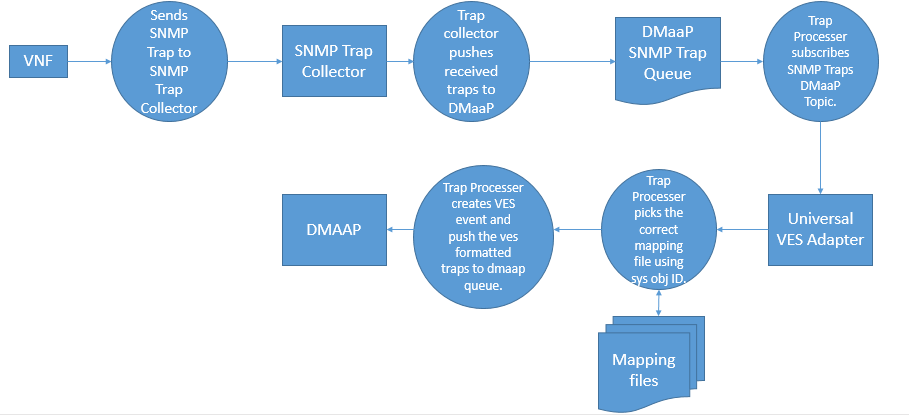
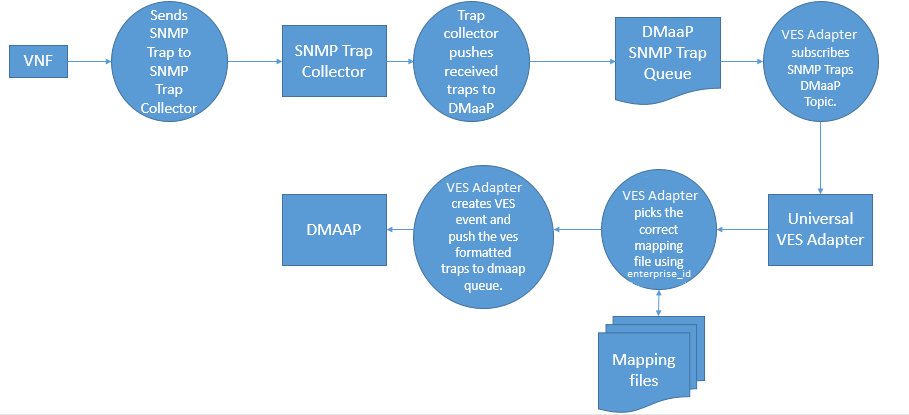
Update DCAEGEN2, mapper services doc
Changing documentation as per changes made for Dublin release

Issue-ID: DCAEGEN2-1461

diff --git a/docs/sections/services/mapper/mappingfile.rst b/docs/sections/services/mapper/mappingfile.rst
@@ -1,84 +1,114 @@
 .. This work is licensed under a Creative Commons Attribution 4.0 International License.
 .. http://creativecommons.org/licenses/by/4.0
-.. Copyright 2018 Tech Mahindra Ltd.
+.. Copyright 2018-2019 Tech Mahindra Ltd.
 
 Mapping File
 ============
 
 Mapping file is needed by Universal VES Adapter to convert the telemetry data into the VES format.
 The Adapter uses Smooks Framework to do the data format conversion by using the mapping files.
-Currently it requires to write the mapping file manually and upload it using the SnmpMapper application. The file gets stored into the postgres database. The pgInventory instance is used for this.
 
 | To know more about smooks framework check the following link:
 | http://www.smooks.org/guide
 
+SNMP Collector Default Mapping File
+============
 Following is the default snmp mapping file which is used when no mapping file is found while processing event from SNMP Trap Collector. 
 
 .. code-block:: xml
 
- <?xml version="1.0"?>
-    <smooks-resource-list
-             xmlns="http://www.milyn.org/xsd/smooks-1.1.xsd"
-            xmlns:json="http://www.milyn.org/xsd/smooks/json-1.1.xsd"
-            xmlns:jb="http://www.milyn.org/xsd/smooks/javabean-1.4.xsd">
-        <json:reader rootName="vesevent"  keyWhitspaceReplacement="-">
-        <json:keyMap>
-                   <json:key from="date&amp;time" to="date-and-time" />
-                </json:keyMap>
-          </json:reader>
-     
-       <jb:bean class="org.onap.dcaegen2.ves.domain.VesEvent" beanId="vesEvent" createOnElement="vesevent">
-          <jb:wiring property="event" beanIdRef="event"/>
-     </jb:bean>
-  
-       <jb:bean class="org.onap.dcaegen2.ves.domain.Event" beanId="event" createOnElement="vesevent">
-           <jb:wiring property="commonEventHeader" beanIdRef="commonEventHeader"/>
-           <jb:wiring property="faultFields" beanIdRef="faultFields"/>     
-          <!--<jb:wiring property="measurementsForVfScalingFields" beanIdRef="measurementsForVfScalingFields"/> -->       
-      </jb:bean>   
-      <!--<jb:bean class="org.onap.dcaegen2.ves.domain.MeasurementsForVfScalingFields" beanId="measurementsForVfScalingFields" createOnElement="simple">
-          <jb:wiring property="additionalMeasurements" beanIdRef="additionalMeasurements"/>
-       </jb:bean>-->
-       
-       <jb:bean class="org.onap.dcaegen2.ves.domain.CommonEventHeader" beanId="commonEventHeader" createOnElement="vesevent">
-                  <jb:expression property="version">"3.0"</jb:expression>
-                   <jb:expression property="eventId">"XXXX"</jb:expression>
-                   <jb:expression property="reportingEntityName">"VesAdapter"</jb:expression>
-                  <jb:expression property="domain">"fault"</jb:expression>
-                  <jb:expression property="eventName" execOnElement="vesevent" >commonEventHeader.domain+"_"+"_"+ faultFields.alarmCondition;</jb:expression>
-          <jb:value property="sequence" data="0" default="0" decoder="Long"/>
-           <jb:value property="lastEpochMicrosec" data="#/time-received"  decoder="Double" />
-          <jb:value property="startEpochMicrosec" data="#/time-received"  decoder="Double"/>
-                  <jb:expression property="priority">"Medium"</jb:expression>
-          <jb:expression property="sourceName">"VesAdapter"</jb:expression>
-      </jb:bean>   
-      
-      <jb:bean class="org.onap.dcaegen2.ves.domain.FaultFields" beanId="faultFields" createOnElement="vesevent">
-           <jb:value property="alarmCondition" data="#/trap-category" />
-                 <jb:expression property="eventSeverity">"MINOR"</jb:expression>
-                   <jb:expression property="eventSourceType">"SNMP Agent"</jb:expression>
-           <jb:expression property="specificProblem">"SNMP Fault"</jb:expression>
-           <jb:value property="faultFieldsVersion" data="2.0" default="2.0" decoder="Double" />
-          <jb:wiring property="alarmAdditionalInformation" beanIdRef="alarmAdditionalInformationroot"/>   
-                  <jb:expression property="vfStatus">"Active"</jb:expression>
-         
-    </jb:bean>  
-        <jb:bean class="java.util.ArrayList" beanId="alarmAdditionalInformationroot" createOnElement="vesevent">
-         <jb:wiring beanIdRef="alarmAdditionalInformation"/>
-      </jb:bean>
-      
-        <jb:bean class="org.onap.dcaegen2.ves.domain.AlarmAdditionalInformation" beanId="alarmAdditionalInformation" createOnElement="varbinds/element">
-        <jb:value property="name" data="#/varbind_oid"/>
-         <jb:value property="value" data="#/varbind_value" />
-       </jb:bean>
-          <!--<jb:bean class="java.util.ArrayList" beanId="additionalMeasurements" createOnElement="simple">
-         <jb:wiring beanIdRef="additionalMeasurement"/>
-       </jb:bean>    
-      
-       <jb:bean class="org.onap.dcaegen2.ves.domain.AdditionalMeasurement" beanId="additionalMeasurement" createOnElement="varbinds/element">
-          <jb:value property="name" data="#/varbind_value" />
-      </jb:bean>  -->  
-      
-  </smooks-resource-list>
+ <?xml version="1.0" encoding="UTF-8"?><smooks-resource-list xmlns="http://www.milyn.org/xsd/smooks-1.1.xsd" xmlns:jb="http://www.milyn.org/xsd/smooks/javabean-1.4.xsd" xmlns:json="http://www.milyn.org/xsd/smooks/json-1.1.xsd">
+   <json:reader rootName="vesevent" keyWhitspaceReplacement="-">
+      <json:keyMap>
+         <json:key from="date&amp;time" to="date-and-time" />
+      </json:keyMap>
+   </json:reader>
+   <jb:bean class="org.onap.dcaegen2.ves.domain.ves54.VesEvent" beanId="vesEvent" createOnElement="vesevent">
+      <jb:wiring property="event" beanIdRef="event" />
+   </jb:bean>
+   <jb:bean class="org.onap.dcaegen2.ves.domain.ves54.Event" beanId="event" createOnElement="vesevent">
+      <jb:wiring property="commonEventHeader" beanIdRef="commonEventHeader" />
+      <jb:wiring property="faultFields" beanIdRef="faultFields" />
+   </jb:bean>
+   <jb:bean class="org.onap.dcaegen2.ves.domain.ves54.CommonEventHeader" beanId="commonEventHeader" createOnElement="vesevent">
+      <jb:expression property="version">'3.0'</jb:expression>
+      <jb:expression property="eventType">'FaultField'</jb:expression>
+      <jb:expression property="eventId" execOnElement="vesevent">'XXXX'</jb:expression>
+      <jb:expression property="reportingEntityName">'VESMapper'</jb:expression>
+      <jb:expression property="domain">org.onap.dcaegen2.ves.domain.ves54.CommonEventHeader.Domain.FAULT</jb:expression>
+      <jb:expression property="eventName" execOnElement="vesevent">commonEventHeader.domain</jb:expression>
+      <jb:value property="sequence" data="0" default="0" decoder="Long" />
+      <jb:value property="lastEpochMicrosec" data="#/time-received" />
+      <jb:value property="startEpochMicrosec" data="#/time-received" />
+      <jb:expression property="priority">org.onap.dcaegen2.ves.domain.ves54.CommonEventHeader.Priority.NORMAL</jb:expression>
+      <jb:expression property="sourceName">'VesAdapter'</jb:expression>
+   </jb:bean>
+   <jb:bean class="org.onap.dcaegen2.ves.domain.ves54.FaultFields" beanId="faultFields" createOnElement="vesevent">
+      <jb:value property="faultFieldsVersion" data="2.0" default="2.0" decoder="Double" />
+      <jb:value property="alarmCondition" data="#/trap-category" />
+      <jb:expression property="specificProblem">'SNMP Fault'</jb:expression>
+      <jb:expression property="vfStatus">org.onap.dcaegen2.ves.domain.ves54.FaultFields.VfStatus.ACTIVE</jb:expression>
+      <jb:expression property="eventSeverity">org.onap.dcaegen2.ves.domain.ves54.FaultFields.EventSeverity.MINOR</jb:expression>
+      <jb:wiring property="alarmAdditionalInformation" beanIdRef="alarmAdditionalInformationroot" />
+   </jb:bean>
+   <jb:bean class="java.util.ArrayList" beanId="alarmAdditionalInformationroot" createOnElement="vesevent">
+      <jb:wiring beanIdRef="alarmAdditionalInformation" />
+   </jb:bean>
+   <jb:bean class="org.onap.dcaegen2.ves.domain.ves54.AlarmAdditionalInformation" beanId="alarmAdditionalInformation" createOnElement="varbinds/element">
+      <jb:value property="name" data="#/varbind_oid" />
+      <jb:value property="value" data="#/varbind_value" />
+   </jb:bean></smooks-resource-list>
 
+RestConf Collector Default Mapping File
+============
+Following is the default RestConf collector mapping file which is used when no mapping file is found while processing notification from RestConf Collector. 
 
+.. code-block:: xml
+
+ <?xml version="1.0" encoding="UTF-8"?><smooks-resource-list xmlns="http://www.milyn.org/xsd/smooks-1.1.xsd" xmlns:jb="http://www.milyn.org/xsd/smooks/javabean-1.4.xsd" xmlns:json="http://www.milyn.org/xsd/smooks/json-1.1.xsd">
+   <json:reader rootName="vesevent" keyWhitspaceReplacement="-">
+      <json:keyMap>
+         <json:key from="date&amp;time" to="date-and-time" />
+      </json:keyMap>
+   </json:reader>
+   <jb:bean class="org.onap.dcaegen2.ves.domain.ves70.VesEvent" beanId="vesEvent" createOnElement="vesevent">
+      <jb:wiring property="event" beanIdRef="event" />
+   </jb:bean>
+   <jb:bean class="org.onap.dcaegen2.ves.domain.ves70.Event" beanId="event" createOnElement="vesevent">
+      <jb:wiring property="commonEventHeader" beanIdRef="commonEventHeader" />
+      <jb:wiring property="pnfRegistrationFields" beanIdRef="pnfRegistrationFields" />
+   </jb:bean>
+   <jb:bean class="org.onap.dcaegen2.ves.domain.ves70.CommonEventHeader" beanId="commonEventHeader" createOnElement="vesevent">
+      <jb:expression property="version">org.onap.dcaegen2.ves.domain.ves70.CommonEventHeader.Version._4_0_1</jb:expression>
+      <jb:expression property="eventType">'pnfRegistration'</jb:expression>
+      <jb:expression property="vesEventListenerVersion">org.onap.dcaegen2.ves.domain.ves70.CommonEventHeader.VesEventListenerVersion._7_0_1</jb:expression>
+      <jb:expression property="eventId" execOnElement="vesevent">'registration_'+commonEventHeader.ts1</jb:expression>
+      <jb:expression property="reportingEntityName">'VESMapper'</jb:expression>
+      <jb:expression property="domain">org.onap.dcaegen2.ves.domain.ves70.CommonEventHeader.Domain.PNF_REGISTRATION</jb:expression>
+      <jb:expression property="eventName" execOnElement="vesevent">commonEventHeader.domain</jb:expression>
+      <jb:value property="sequence" data="0" default="0" decoder="Long" />
+      <jb:expression property="lastEpochMicrosec" execOnElement="vesevent">commonEventHeader.ts1</jb:expression>
+      <jb:expression property="startEpochMicrosec" execOnElement="vesevent">commonEventHeader.ts1</jb:expression>
+      <jb:expression property="priority">org.onap.dcaegen2.ves.domain.ves70.CommonEventHeader.Priority.NORMAL</jb:expression>
+      <jb:expression property="sourceName" execOnElement="vesevent">pnfRegistrationFields.vendorName+'-'+pnfRegistrationFields.serialNumber</jb:expression>
+   </jb:bean>
+   <jb:bean class="org.onap.dcaegen2.ves.domain.ves70.PnfRegistrationFields" beanId="pnfRegistrationFields" createOnElement="vesevent">
+      <jb:expression property="pnfRegistrationFieldsVersion">org.onap.dcaegen2.ves.domain.ves70.PnfRegistrationFields.PnfRegistrationFieldsVersion._2_0</jb:expression>
+      <jb:value property="serialNumber" data="pnfRegistration/serialNumber" />
+      <jb:value property="lastServiceDate" data="pnfRegistration/lastServiceDate" />
+      <jb:value property="manufactureDate" data="pnfRegistration/manufactureDate" />
+      <jb:value property="modelNumber" data="pnfRegistration/modelNumber" />
+      <jb:value property="oamV4IpAddress" data="pnfRegistration/oamV4IpAddress" />
+      <jb:value property="oamV6IpAddress" data="pnfRegistration/oamV6IpAddress" />
+      <jb:value property="softwareVersion" data="pnfRegistration/softwareVersion" />
+      <jb:value property="unitFamily" data="pnfRegistration/unitFamily" />
+      <jb:value property="unitType" data="pnfRegistration/unitType" />
+      <jb:value property="vendorName" data="pnfRegistration/vendorName" />
+      <jb:wiring property="additionalFields" beanIdRef="alarmAdditionalInformation" />
+   </jb:bean>
+   <jb:bean class="org.onap.dcaegen2.ves.domain.ves70.AlarmAdditionalInformation" beanId="alarmAdditionalInformation" createOnElement="vesevent">
+      <jb:wiring property="additionalProperties" beanIdRef="additionalFields2" />
+   </jb:bean>
+   <jb:bean beanId="additionalFields2" class="java.util.HashMap" createOnElement="vesevent/pnfRegistration/additionalFields">
+      <jb:value data="pnfRegistration/additionalFields/*" />
+   </jb:bean></smooks-resource-list>

diff --git a/docs/sections/services/mapper/installation.rst b/docs/sections/services/mapper/installation.rst
@@ -1,48 +1,24 @@
 .. This work is licensed under a Creative Commons Attribution 4.0 International License.
 .. http://creativecommons.org/licenses/by/4.0
-.. Copyright 2018 Tech Mahindra Ltd.
+.. Copyright 2018-2019 Tech Mahindra Ltd.
 
 
 Installation
 ============
-Currently both Universal VES Adapter and SnmpMapper are not integrated with CONFIG_BINDING_SERVICE to get their configuration. All the required configuration needs to be passed as docker environment parameters.
 
 | **Universal Ves Adapter**
+1.To run Universal Ves Adapter container on standalone mode,
 
- To run Universal Ves Adapter container on standalone mode, following docker environment parameters are required.
+To run Universal Ves Adapter container on standalone mode using local configuration file carried in the docker image, following docker run command can be used.
+ 
+    ``docker run -d -p 8085:8085/tcp  nexus3.onap.org:10003/onap/org.onap.dcaegen2.services.mapper.vesadapter.universalvesadaptor:latest``
 
-
-- DMAAPHOST  -  Should contain an address to DMaaP, so that event publishing can work
-- MR_PORT - DMaaP Exposed Port
-- URL_JDBC - JDBC URL where postgres db is installed 
-- JDBC_USERNAME - Username for postgres DB user
-- JDBC_PASSWORD - Password for postgres  DB user
-- CONSUL_HOST - a host address where Consul service lies
-- CONFIG_BINDING_SERVICE - name of CBS as it is registered in Consul
-- HOSTNAME - name of Universal Ves Adapter application as it is registered in CBS catalog
-
-Sample docker run command could be -
-
-    ``docker run -d -p 8085:8085/tcp -e URL_JDBC=jdbc:postgresql://10.53.172.138:5432/postgres -e JDBC_USERNAME=postgres -e JDBC_PASSWORD=root -e DMAAPHOST=10.53.172.156 -e CONSUL_HOST=10.53.172.109 -e HOSTNAME=static-dcaegen2-services-mua -e MR_DEFAULT_PORT_NUMBER=3904 -e CONFIG_BINDING_SERVICE=config_binding_service nexus3.onap.org:10003/onap/org.onap.dcaegen2.services.mapper.vesadapter.universalvesadaptor:latest``
-
-Note: you should have a postgresql  and DMaap  instance running in your system and provide their credentials and hostname to run in standalone mode.
+ 2.TO Run via blueprint 
+a.change DMaaP configurations in the blueprint as per setup 
+b.upload the blueprint in the DCAE's Cloudify instance
+c.Create the Deployment 
 
 
 
 
-| **SnmpMapper**
 
-- To run SnmpMapper container on standalone mode, following docker environment parameters are required.
-
-- DMAAPHOST-should contain an address to DMaaP, this will be used in future reference
-- MR_PORT - DMaaP Exposed Port
-- URL_JDBC- JDBC URL where postgres db is installed 
-- JDBC_USERNAME- Username for postgres DB user
-- JDBC_PASSWORD-Password for postgres  DB user
-- CONSUL_HOST - a host address where Consul service lies
-- CONFIG_BINDING_SERVICE - name of CBS as it is registered in Consul
-- HOSTNAME - name of Universal Ves Adapter application as it is registered in CBS catalog
-
-Sample docker run command could be -
-
-   ``docker run -d -p 8084:8080/tcp -e URL_JDBC=jdbc:postgresql://10.53.172.138:5432/postgres -e JDBC_USERNAME=postgres -e JDBC_PASSWORD=root -e DMAAPHOST=10.53.172.156 -e CONSUL_HOST=10.53.172.109 -e HOSTNAME=static-dcaegen2-services-msnmp -e MR_DEFAULT_PORT_NUMBER=3904 -e CONFIG_BINDING_SERVICE=config_binding_service nexus3.onap.org:10003/onap/org.onap.dcaegen2.services.mapper.snmpmapper:latest``

diff --git a/docs/sections/services/mapper/flow.rst b/docs/sections/services/mapper/flow.rst
@@ -1,17 +1,39 @@
+.. This work is licensed under a Creative Commons Attribution 4.0 International License.
+.. http://creativecommons.org/licenses/by/4.0
+.. Copyright 2018-2019 Tech Mahindra Ltd.
+
 ============
-Flow
+Flow for converting Rest Conf Collector notification
 ============
-.. [#] VNF submits SNMP traps to the SNMP trap collecto.
-.. [#] Collector converts the trap into JSON format and publishes it on DMaaP topic **ONAP-COLLECTOR-SNMPTRAP**
-.. [#] The Universal VES Adapter(UVA) microservice has subscribed to this DMaaP topic.
-.. [#] On receiving an event from DMaaP, the adapter uses the corresponding mapping file from repository and converts received event into the VES event. It uses the enterprise ID from the received event to find the required mapping file. 
-.. [#] Those SNMP Traps for which no mapping file is identified, a default mapping file is used with generic mappings to create the VES object.
-.. [#] The VES formatted Event will be then published on DMaaP topic **unauthenticated.SEC_FAULT_OUTPUT**.
+.. [1] RestConf Collector generates rcc-notication in JSON format and publishes it on DMaaP topic **unathenticated.DCAE_RCC_OUTPUT**
+.. [2] The Universal VES Adapter(UVA) microservice has subscribed to this DMaaP topic.
+.. [3] On receiving an event from DMaaP, the adapter uses the corresponding mapping file and converts received notification into the VES event. It uses the notification-id from the received notification to find the required mapping file. 
+.. [4] Those notifications for which no mapping file is identified, a default mapping file is used with generic mappings to create the VES event.
+.. [5] The VES formatted Event will be then published on DMaaP topic **unauthenticated.VES_PNFREG_OUTPUT**.
+
+
+.. image:: ./flow-rest-conf.png
+   :height: 200px
+   :width: 300 px
+   :scale: 50 %
+   :alt: alternate text
+   :align: left
+   
+   
+   ============
+Flow for converting SNMP Collector notification
+============
+.. [1] VNF submits SNMP traps to the SNMP collector.
+.. [2] Collector converts the trap into JSON format and publishes it on DMaaP topic **unauthenticated.ONAP-COLLECTOR-SNMPTRAP**
+.. [3] The Universal VES Adapter(UVA) microservice has subscribed to this DMaaP topic.
+.. [4] On receiving an event from DMaaP, the adapter uses the corresponding mapping file and converts received event into the VES event. It uses the enterprise ID from the received event to find the required mapping file. 
+.. [5] Those SNMP Traps for which no mapping file is identified, a default mapping file is used with generic mappings to create the VES event.
+.. [6] The VES formatted Event will be then published on DMaaP topic **unauthenticated.SEC_FAULT_OUTPUT**.
 
 
 .. image:: ./flow.png
-   :height: 100px
-   :width: 200 px
+   :height: 200px
+   :width: 300 px
    :scale: 50 %
    :alt: alternate text
    :align: left

diff --git a/docs/sections/services/mapper/delivery.rst b/docs/sections/services/mapper/delivery.rst
@@ -1,17 +1,15 @@
 .. This work is licensed under a Creative Commons Attribution 4.0 International License.
 .. http://creativecommons.org/licenses/by/4.0
-.. Copyright 2018 Tech Mahindra Ltd.
+.. Copyright 2018-2019 Tech Mahindra Ltd.
 
 Delivery
 ========
-Mapper is delivered with **2 Docker container** having spring boot microservices, **UniversalVesAdapter** and **SnmMapper**. UniversalVesAdapter converts SNMP trap JSON to VES and snmpmapper is just helper application for uploading the mapping file to DB. 
+Mapper is delivered with **1 Docker container** having spring boot microservice, **UniversalVesAdapter**. UniversalVesAdapter converts telementary data to VES. 
 
-| In current release, the installation of mapper service is not integrated with DCAE's installation process and needs to be done manually.
+| In current release, the UniversalVesAdapter is integrated with DCAE's config binding service. On start, it fetches the initial configuration from CBS and uses the same. Currently it is not having functionality to refresh the configuration changes made into Consul KV store.
 
 Docker Containers
 ---------------
 Docker images can be pulled from ONAP Nexus repository with below commands: 
 
-| docker pull nexus3.onap.org:10003/snapshots/onap/org.onap.dcaegen2.services.mapper.vesadapter.universalvesadaptor:latest
-
-| docker pull nexus3.onap.org:10003/snapshots/onap/org.onap.dcaegen2.services.mapper.vesadapter.snmpmapper:latest
+  ``docker pull nexus3.onap.org:10001/onap/org.onap.dcaegen2.services.mapper.vesadapter.universalvesadaptor:1.0.0-SNAPSHOT``

diff --git a/docs/sections/services/mapper/index.rst b/docs/sections/services/mapper/index.rst
@@ -1,6 +1,6 @@
 .. This work is licensed under a Creative Commons Attribution 4.0 International License.
 .. http://creativecommons.org/licenses/by/4.0
-.. Copyright 2018 Tech Mahindra Ltd.
+.. Copyright 2018-2019 Tech Mahindra Ltd.
 
 
 Mapper
@@ -8,16 +8,11 @@ Mapper
 
 | **Problem:** Different VNF vendors generate event and telemetry data in different formats. Out of the box, all VNF vendors may not support VES format. 
 | **Solution**: A generic adapter which can convert different formats of event and telemetry data to VES format can be of use here. 
-| *Note*: Currently support snmp trap telemetry data
+| *Note*: Currently mapping files are available for SNMP collector and RESTConf collector.
 
-There are 2 micro services in the mapper functionality.
+There is 1 micro service in the mapper functionality.
 
-**Universal VES Adapter** - It converts the telemetry data into the required ves format and publishes to the dmaap for further action to be taken. 
- *Note*: Currently it supports conversion of snmp traps generated by SNMP TRAP Collector. With some work, it can support other collectors as well.
-
-
-**SnmpMapper** - It provides web UI to upload mapping files which are then stored into the postgres database. VES adapter refers to these mapping files at the time of converting the events into VES events.
-
+**Universal VES Adapter** - It converts the telemetry data into the required VES format and publishes to the DMaaP for further action to be taken by the DCAE analytics applications. 
 
 
 .. toctree::
